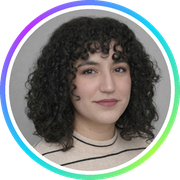
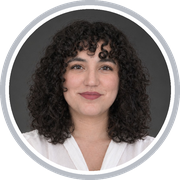
Add files via upload

diff --git a/ichrak.html b/ichrak.html
@@ -7,7 +7,7 @@
 button{background:#00AFCA;color:#fff;border:0;border-radius:8px;padding:12px 22px;font-size:15px;font-weight:700;cursor:pointer}
 #ok{display:none;color:#1a7f4b;font-weight:700;margin-left:12px}ol{color:#39424F;line-height:1.7}</style></head><body><div class="w">
 <h1>Ichrak Lamouchi</h1><p>Your BITX email signature. Click the button, then paste it into Gmail.</p>
-<div class="box" id="sig"><table cellpadding="0" cellspacing="0" border="0" bgcolor="#FFFFFF" style="border-collapse:collapse;background-color:#FFFFFF;font-family:'Inter',Helvetica,Arial,sans-serif;"><tr><td style="padding:8px 0 4px 0;"><table cellpadding="0" cellspacing="0" border="0" style="border-collapse:collapse;"><tr><td valign="middle" style="width:90px;padding-right:13px;"><img src="https://ichrak-l.github.io/email-assets-277/circle-ichrak@2x.png?v=cb9c6b36" width="90" height="90" alt="Ichrak Lamouchi" style="display:block;width:90px;height:90px;border:0;"></td><td valign="middle" style="padding-right:33px;"><div style="font-family:'Inter',Helvetica,Arial,sans-serif;font-size:15px;line-height:18px;font-weight:800;letter-spacing:-0.2px;color:#040C17;white-space:nowrap;">Ichrak Lamouchi</div><div style="font-family:'Inter',Helvetica,Arial,sans-serif;font-size:10px;line-height:13px;color:#040C17;padding-top:2px;white-space:nowrap;">Senior Programme Manager</div><table cellpadding="0" cellspacing="0" border="0" style="border-collapse:collapse;margin-top:10px;"><tr><td valign="top" style="padding:2px 8px 0 0;width:11px;"><img src="https://ichrak-l.github.io/email-assets-277/icon-whatsapp@2x.png" width="11" height="11" alt="WhatsApp" style="display:block;width:11px;height:11px;border:0;"></td><td valign="top" style="padding-top:0px;font-family:'Inter',Helvetica,Arial,sans-serif;font-size:10px;line-height:15px;color:#040C17;white-space:nowrap;"><a href="https://wa.me/34682532209" style="color:#040C17;text-decoration:none;">+34 682 53 22 09</a></td></tr><tr><td valign="top" style="padding:6px 8px 0 0;width:11px;"><img src="https://ichrak-l.github.io/email-assets-277/icon-mail@2x.png" width="11" height="11" alt="Email" style="display:block;width:11px;height:11px;border:0;"></td><td valign="top" style="padding-top:4px;font-family:'Inter',Helvetica,Arial,sans-serif;font-size:10px;line-height:15px;color:#040C17;white-space:nowrap;"><a href="mailto:ichrak@bitx.es" style="color:#040C17;text-decoration:none;">ichrak@bitx.es</a></td></tr></table></td><td valign="middle" style="width:1px;font-size:0;line-height:0;"><div style="width:1px;height:96px;background-color:#C9D0D9;font-size:0;line-height:96px;">&nbsp;</div></td><td valign="middle" style="padding-left:22px;padding-right:20px;"><img src="https://ichrak-l.github.io/email-assets-277/logo-bitx@2x.png?v=4dd68a3f" width="59" height="18" alt="BITX" style="display:block;width:59px;height:18px;border:0;"><table cellpadding="0" cellspacing="0" border="0" style="border-collapse:collapse;margin-top:12px;"><tr><td valign="top" style="padding:2px 8px 0 0;width:11px;"><img src="https://ichrak-l.github.io/email-assets-277/icon-pin@2x.png?v=36849157" width="11" height="11" alt="Address" style="display:block;width:11px;height:11px;border:0;"></td><td valign="top" style="padding-top:0px;font-family:'Inter',Helvetica,Arial,sans-serif;font-size:10px;line-height:15px;color:#040C17;white-space:nowrap;"><a href="https://www.google.com/maps/search/?api=1&query=Passeig%20de%20Gr%C3%A0cia%2053%2C%2008007%20Barcelona%2C%20Spain" style="color:#040C17;text-decoration:none;">Passeig de Gr&agrave;cia 53, &Agrave;tic<br>08007 Barcelona, Spain</a></td></tr><tr><td valign="top" style="padding:8px 8px 0 0;width:11px;"><img src="https://ichrak-l.github.io/email-assets-277/icon-web@2x.png" width="11" height="11" alt="Website" style="display:block;width:11px;height:11px;border:0;"></td><td valign="top" style="padding-top:6px;font-family:'Inter',Helvetica,Arial,sans-serif;font-size:10px;line-height:15px;color:#00AFCA;white-space:nowrap;"><a href="https://www.bitx.es" style="color:#00AFCA;text-decoration:underline;">www.bitx.es</a></td></tr></table></td><td valign="middle" style="width:65px;"><img src="https://ichrak-l.github.io/email-assets-277/qr-ichrak@2x.png?v=9ff895a7" width="65" height="65" alt="Scan to save contact" style="display:block;width:65px;height:65px;border:0;"></td></tr></table><div style="height:1px;line-height:1px;font-size:0;background-color:#C9D0D9;margin:12px 0 9px 0;">&nbsp;</div><div style="max-width:560px;"><p style="margin:0 0 2px 0;font-family:Helvetica,Arial,sans-serif;font-size:8px;line-height:11px;font-weight:bold;letter-spacing:0.4px;color:#040C17;">DISCLAIMER</p><p style="margin:0 0 4px 0;font-family:Helvetica,Arial,sans-serif;font-size:8px;line-height:11px;color:#6B7480;">The information contained in this message and/or any attached files, sent from BITX, S.L., is confidential and/or legally privileged and is intended solely for the use of the individual(s) to whom it is addressed. Please note that your personal data has been incorporated into the processing systems of BITX, S.L., and that, provided the legal requirements are met, you may exercise your rights of access, rectification, restriction of processing, erasure (right to be forgotten), data portability, objection, and withdrawal by sending a written request to <a href="https://www.google.com/maps/search/?api=1&query=Passeig%20de%20Gr%C3%A0cia%2053%2C%2008007%20Barcelona%2C%20Spain" style="color:#6B7480;text-decoration:underline;">Passeig de Gr&agrave;cia 53</a>, &Agrave;tic, 08007 Barcelona (Spain), or by email to <a href="mailto:legal@bitx.es" style="color:#6B7480;text-decoration:underline;">legal@bitx.es</a>.</p><p style="margin:0 0 4px 0;font-family:Helvetica,Arial,sans-serif;font-size:8px;line-height:11px;color:#6B7480;">If you have received this message in error, are not the intended recipient, the employee, or the agent responsible for delivering it, please be advised that any use, disclosure, distribution, or reproduction of this communication is strictly prohibited and may be unlawful. We kindly ask you to notify us immediately and delete the message, as well as destroy any copies you may have. Thank you.</p></div></td></tr></table></div>
+<div class="box" id="sig"><table cellpadding="0" cellspacing="0" border="0" bgcolor="#FFFFFF" style="border-collapse:collapse;background-color:#FFFFFF;font-family:'Inter',Helvetica,Arial,sans-serif;"><tr><td style="padding:8px 0 4px 0;"><table cellpadding="0" cellspacing="0" border="0" style="border-collapse:collapse;"><tr><td valign="middle" style="width:90px;padding-right:13px;"><img src="https://ichrak-l.github.io/email-assets-277/circle-ichrak@2x.png?v=e5b1b89b" width="90" height="90" alt="Ichrak Lamouchi" style="display:block;width:90px;height:90px;border:0;"></td><td valign="middle" style="padding-right:33px;"><div style="font-family:'Inter',Helvetica,Arial,sans-serif;font-size:15px;line-height:18px;font-weight:700;letter-spacing:-0.1px;color:#040C17;white-space:nowrap;">Ichrak Lamouchi</div><div style="font-family:'Inter',Helvetica,Arial,sans-serif;font-size:10px;line-height:13px;color:#040C17;padding-top:2px;white-space:nowrap;">Senior Programme Manager</div><table cellpadding="0" cellspacing="0" border="0" style="border-collapse:collapse;margin-top:10px;"><tr><td valign="top" style="padding:2px 8px 0 0;width:11px;"><img src="https://ichrak-l.github.io/email-assets-277/icon-whatsapp@2x.png?v=4388f343" width="11" height="11" alt="WhatsApp" style="display:block;width:11px;height:11px;border:0;"></td><td valign="top" style="padding-top:0px;font-family:'Inter',Helvetica,Arial,sans-serif;font-size:10px;line-height:15px;color:#040C17;white-space:nowrap;"><a href="https://wa.me/34682532209" style="color:#040C17;text-decoration:none;">+34 682 53 22 09</a></td></tr><tr><td valign="top" style="padding:6px 8px 0 0;width:11px;"><img src="https://ichrak-l.github.io/email-assets-277/icon-mail@2x.png?v=8dcb3aac" width="11" height="11" alt="Email" style="display:block;width:11px;height:11px;border:0;"></td><td valign="top" style="padding-top:4px;font-family:'Inter',Helvetica,Arial,sans-serif;font-size:10px;line-height:15px;color:#040C17;white-space:nowrap;"><a href="mailto:ichrak@bitx.es" style="color:#040C17;text-decoration:none;">ichrak@bitx.es</a></td></tr></table></td><td valign="middle" style="width:1px;font-size:0;line-height:0;"><div style="width:1px;height:96px;background-color:#C9D0D9;font-size:0;line-height:96px;">&nbsp;</div></td><td valign="middle" style="padding-left:22px;padding-right:20px;"><img src="https://ichrak-l.github.io/email-assets-277/logo-bitx@2x.png?v=4dd68a3f" width="59" height="18" alt="BITX" style="display:block;width:59px;height:18px;border:0;"><table cellpadding="0" cellspacing="0" border="0" style="border-collapse:collapse;margin-top:12px;"><tr><td valign="top" style="padding:2px 8px 0 0;width:11px;"><img src="https://ichrak-l.github.io/email-assets-277/icon-pin@2x.png?v=36849157" width="11" height="11" alt="Address" style="display:block;width:11px;height:11px;border:0;"></td><td valign="top" style="padding-top:0px;font-family:'Inter',Helvetica,Arial,sans-serif;font-size:10px;line-height:15px;color:#040C17;white-space:nowrap;"><a href="https://www.google.com/maps/search/?api=1&query=Passeig%20de%20Gr%C3%A0cia%2053%2C%2008007%20Barcelona%2C%20Spain" style="color:#040C17;text-decoration:none;">Passeig de Gr&agrave;cia 53, &Aacute;tico<br>08007 Barcelona, Spain</a></td></tr><tr><td valign="top" style="padding:8px 8px 0 0;width:11px;"><img src="https://ichrak-l.github.io/email-assets-277/icon-web@2x.png?v=d0a83420" width="11" height="11" alt="Website" style="display:block;width:11px;height:11px;border:0;"></td><td valign="top" style="padding-top:6px;font-family:'Inter',Helvetica,Arial,sans-serif;font-size:10px;line-height:15px;color:#00AFCA;white-space:nowrap;"><a href="https://www.bitx.es" style="color:#00AFCA;text-decoration:underline;">www.bitx.es</a></td></tr></table></td><td valign="middle" style="width:65px;"><img src="https://ichrak-l.github.io/email-assets-277/qr-ichrak@2x.png?v=9ff895a7" width="65" height="65" alt="Scan to save contact" style="display:block;width:65px;height:65px;border:0;"></td></tr></table><div style="height:1px;line-height:1px;font-size:0;background-color:#C9D0D9;margin:12px 0 9px 0;">&nbsp;</div><div style="max-width:560px;"><p style="margin:0 0 2px 0;font-family:Helvetica,Arial,sans-serif;font-size:8px;line-height:11px;font-weight:bold;letter-spacing:0.4px;color:#040C17;">DISCLAIMER</p><p style="margin:0 0 4px 0;font-family:Helvetica,Arial,sans-serif;font-size:8px;line-height:11px;color:#6B7480;">The information contained in this message and/or any attached files, sent from BITX, S.L., is confidential and/or legally privileged and is intended solely for the use of the individual(s) to whom it is addressed. Please note that your personal data has been incorporated into the processing systems of BITX, S.L., and that, provided the legal requirements are met, you may exercise your rights of access, rectification, restriction of processing, erasure (right to be forgotten), data portability, objection, and withdrawal by sending a written request to <a href="https://www.google.com/maps/search/?api=1&query=Passeig%20de%20Gr%C3%A0cia%2053%2C%2008007%20Barcelona%2C%20Spain" style="color:#6B7480;text-decoration:underline;">Passeig de Gr&agrave;cia 53</a>, &Agrave;tic, 08007 Barcelona (Spain), or by email to <a href="mailto:legal@bitx.es" style="color:#6B7480;text-decoration:underline;">legal@bitx.es</a>.</p><p style="margin:0 0 4px 0;font-family:Helvetica,Arial,sans-serif;font-size:8px;line-height:11px;color:#6B7480;">If you have received this message in error, are not the intended recipient, the employee, or the agent responsible for delivering it, please be advised that any use, disclosure, distribution, or reproduction of this communication is strictly prohibited and may be unlawful. We kindly ask you to notify us immediately and delete the message, as well as destroy any copies you may have. Thank you.</p></div></td></tr></table></div>
 <button id="b">Copy signature</button><span id="ok">Copied</span>
 <ol><li>Click <b>Copy signature</b>.</li><li>In Gmail: gear icon, <b>See all settings</b>, <b>General</b> tab, <b>Signature</b>, <b>Create new</b> (or replace the old one).</li>
 <li>Click in the box and paste (Ctrl/Cmd + V).</li><li>Choose it under <b>Signature defaults</b>, then scroll down and click <b>Save Changes</b>.</li></ol></div>
